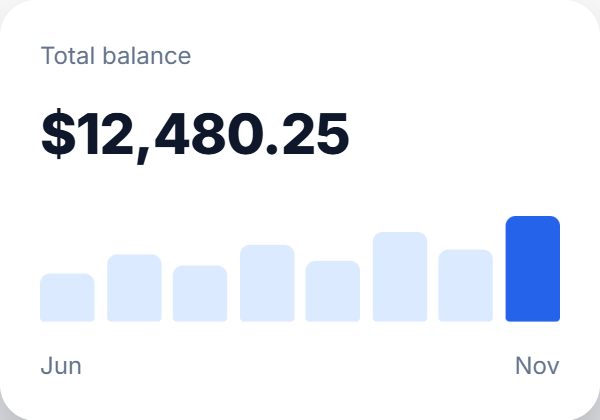
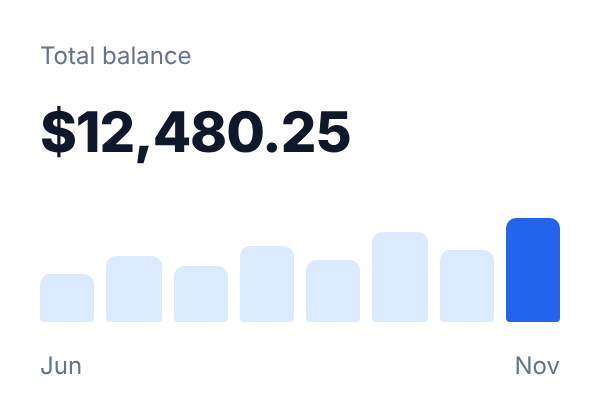
fix images corner

diff --git a/client/src/pages/auth/AuthLayout.tsx b/client/src/pages/auth/AuthLayout.tsx
@@ -53,7 +53,7 @@ export default function AuthLayout() {
           />
           <img
             className="absolute right-3/10 bottom-0 w-3/8"
-            src="/auth/transaction-card.png"
+            src="/auth/transactions-card.png"
             alt="Transaction card"
           />
         </div>
